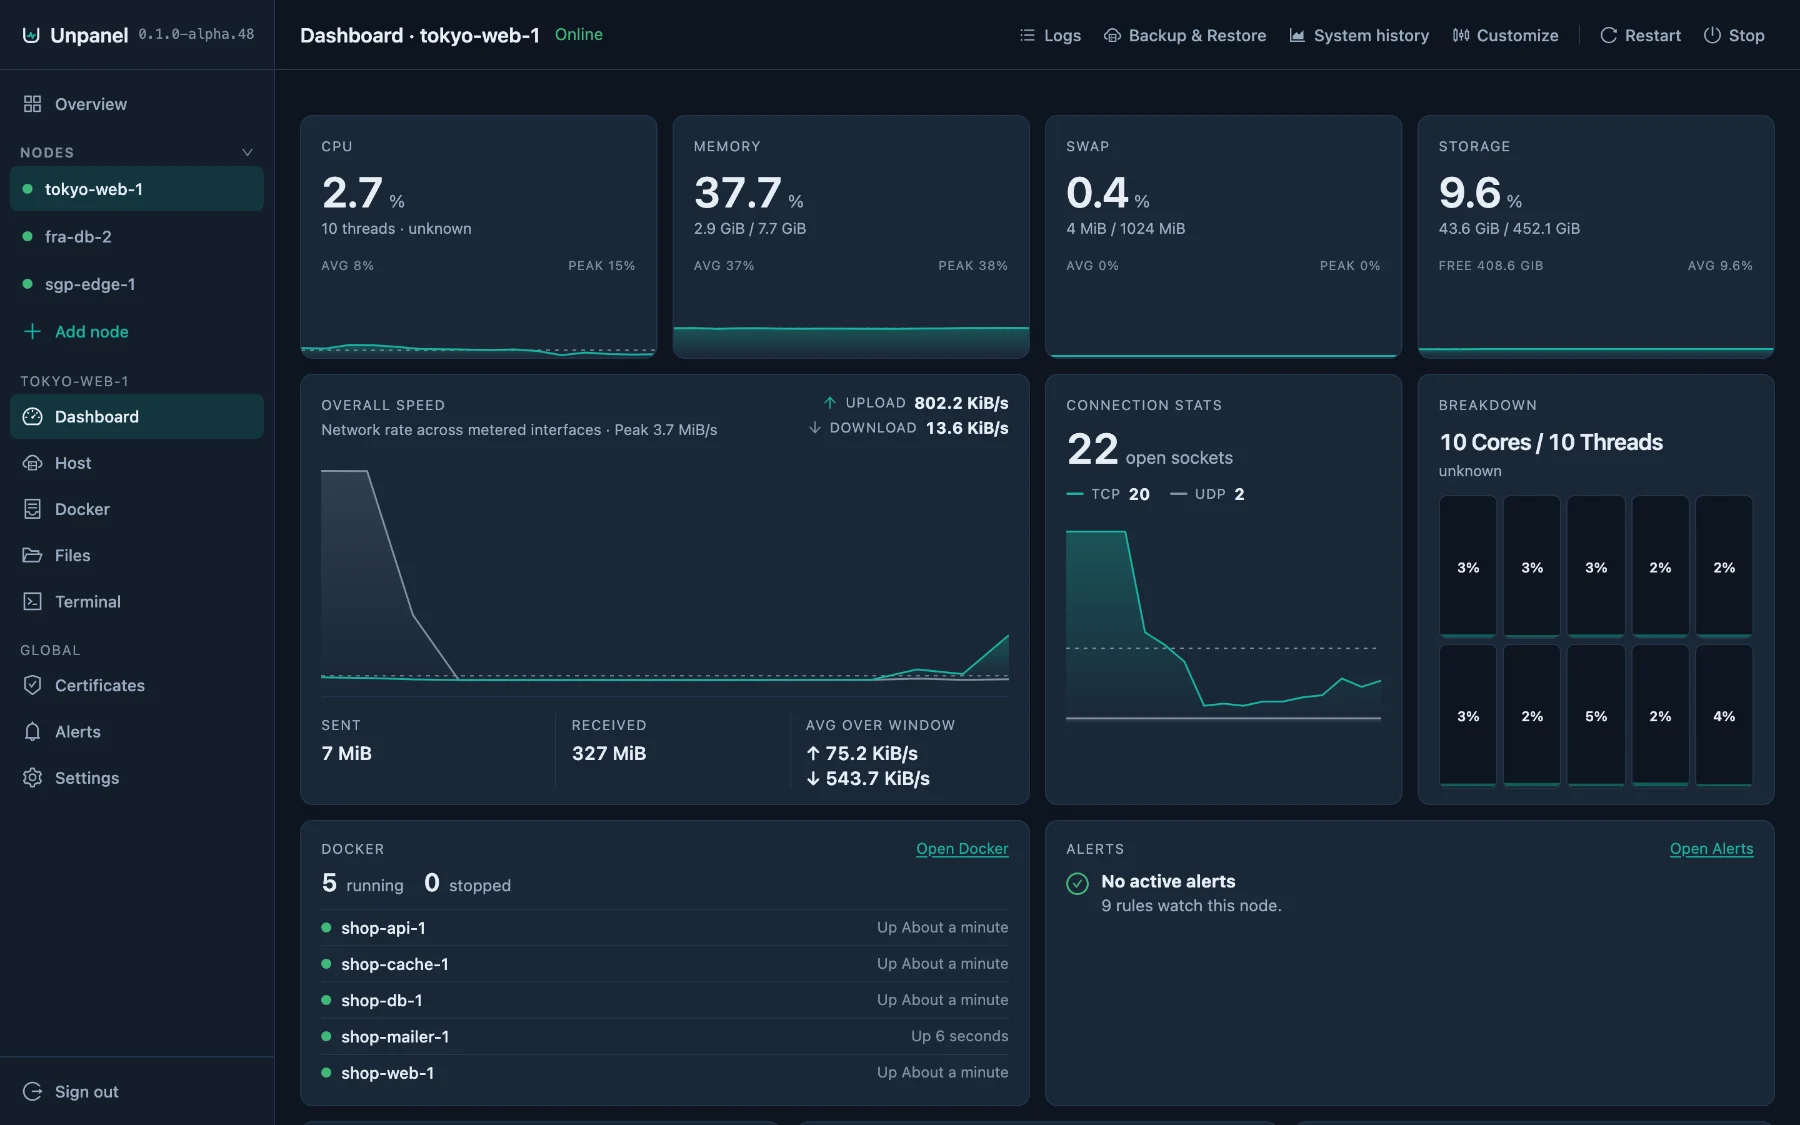
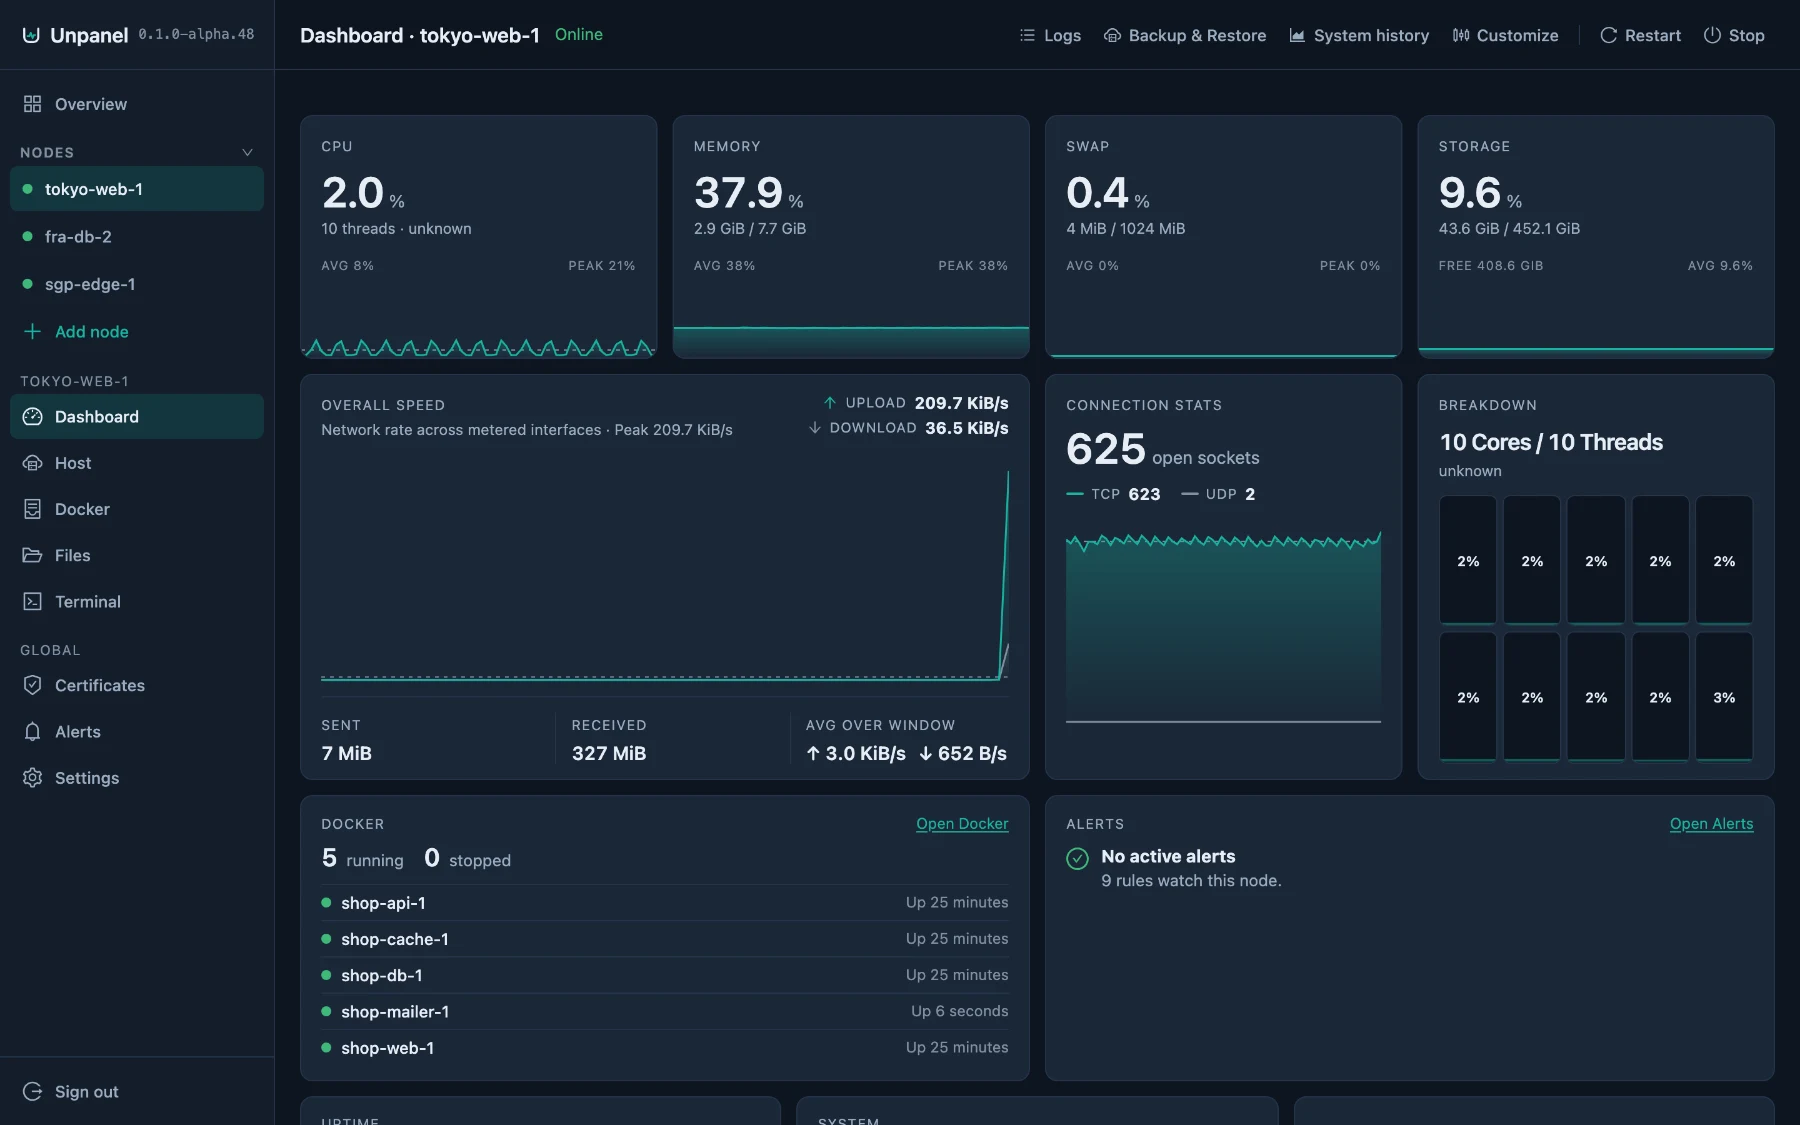
feat(site): real product screenshots, link-preview images and phone-width fixes
Capture Dashboard, Docker, Terminal, Files and Alerts from a published
release running in containers, render share cards from the built hero,
keep Chinese headings from splitting words, and wrap the install command
only at the address's slashes.

diff --git a/apps/site/src/components/InstallCommand.vue b/apps/site/src/components/InstallCommand.vue
@@ -6,9 +6,10 @@ import { product } from "@unpanel/shared";
 import { useLocale } from "../i18n";
 
 const { t } = useLocale();
-const download = `curl -fsSL ${product.siteUrl}/install.sh`;
+const [scheme, host] = product.siteUrl.split("//");
+const path = "/install.sh";
 const run = "| sudo bash";
-const command = `${download} ${run}`;
+const command = `curl -fsSL ${product.siteUrl}${path} ${run}`;
 const copied = ref(false);
 let timer = 0;
 
@@ -54,7 +55,9 @@ onBeforeUnmount(() => window.clearTimeout(timer));
   <div class="command">
     <span class="prompt" aria-hidden="true">$</span>
     <code
-      ><span>{{ download }}</span> <span>{{ run }}</span></code
+      ><span>curl -fsSL</span> <span>{{ scheme }}//</span><wbr /><span>{{ host }}</span
+      ><wbr /><span>{{ path }}</span
+      >{{ " " }}<span>{{ run }}</span></code
     >
     <button type="button" class="btn" :aria-label="t.copy.label" @click="copy">
       <svg viewBox="0 0 16 16" aria-hidden="true">
@@ -97,6 +100,7 @@ code {
   line-height: 1.5;
 }
 
+/* Wrap between words, or at the address's slashes on a phone, never inside the address. */
 code span {
   white-space: nowrap;
 }
@@ -124,11 +128,6 @@ svg {
 
   code {
     flex-basis: calc(100% - 24px);
-  }
-
-  code span:first-child {
-    white-space: normal;
-    overflow-wrap: anywhere;
   }
 
   .btn {

diff --git a/apps/site/src/components/HeroFleet.vue b/apps/site/src/components/HeroFleet.vue
@@ -20,10 +20,11 @@ const root = ref<HTMLElement | null>(null);
 
 const online = computed(() => fleet.filter((server) => server.online).length);
 const attention = computed(() => fleet.filter(needsAttention).length);
-const current = computed(() => fleet[selected.value]!);
+const current = computed(() => fleet[selected.value] ?? fleet[0]);
 
 const tiles = computed(() => {
   const server = current.value;
+  if (!server) return [];
   return [
     { label: t.fleet.cpu, value: currentCpu(server) },
     { label: t.fleet.memory, value: server.memory },
@@ -106,10 +107,10 @@ onBeforeUnmount(() => {
     </ul>
 
     <div class="detail" aria-live="polite">
-      <p v-if="!current.online" class="offline">
+      <p v-if="current && !current.online" class="offline">
         <strong>{{ current.name }}</strong> · {{ t.fleet.offline }}
       </p>
-      <dl v-else class="tiles">
+      <dl v-else-if="current" class="tiles">
         <div v-for="tile in tiles" :key="tile.label" class="tile">
           <dt>{{ tile.label }}</dt>
           <dd v-if="tile.value === null" class="none">{{ t.fleet.noSwap }}</dd>

diff --git a/apps/site/src/components/UpdatesSection.vue b/apps/site/src/components/UpdatesSection.vue
@@ -3,7 +3,7 @@
 <script setup lang="ts">
 import { computed, onBeforeUnmount, onMounted, ref } from "vue";
 import { product } from "@unpanel/shared";
-import releases from "virtual:releases";
+import { releases } from "virtual:releases";
 import { update } from "../content/measurements";
 import { format, formatDate, useLocale } from "../i18n";
 
@@ -21,7 +21,7 @@ const strip = [...releases].reverse();
 const first = strip[0];
 const latest = strip[strip.length - 1];
 const focused = ref<number | null>(null);
-const shown = computed(() => strip[focused.value ?? strip.length - 1]!);
+const shown = computed(() => strip[focused.value ?? strip.length - 1] ?? latest);
 
 const race = ref<HTMLElement | null>(null);
 const running = ref(false);

diff --git a/apps/site/src/lib/changelog.ts b/apps/site/src/lib/changelog.ts
@@ -15,10 +15,10 @@ export function parseReleases(markdown: string): ReleaseSummary[] {
   const releases: ReleaseSummary[] = [];
   const sections = markdown.split(/^## /m).slice(1);
   for (const section of sections) {
-    const heading = /^\[([^\]]+)\] - (\d{4}-\d{2}-\d{2})/.exec(section);
-    if (!heading) continue;
+    const [, version, date] = /^\[([^\]]+)\] - (\d{4}-\d{2}-\d{2})/.exec(section) ?? [];
+    if (!version || !date) continue;
     const entry = /^- (.+)$/m.exec(section)?.[1] ?? "";
-    releases.push({ version: heading[1]!, date: heading[2]!, summary: firstSentence(entry) });
+    releases.push({ version, date, summary: firstSentence(entry) });
   }
   return releases;
 }

diff --git a/apps/site/src/components/FootprintSection.vue b/apps/site/src/components/FootprintSection.vue
@@ -44,10 +44,11 @@ function select(next: FootprintMetric, event?: KeyboardEvent): void {
 }
 
 function onKey(event: KeyboardEvent): void {
+  const step = event.key === "ArrowRight" ? 1 : event.key === "ArrowLeft" ? -1 : 0;
+  if (step === 0) return;
   const index = metrics.indexOf(metric.value);
-  if (event.key === "ArrowRight") select(metrics[(index + 1) % metrics.length]!, event);
-  else if (event.key === "ArrowLeft")
-    select(metrics[(index + metrics.length - 1) % metrics.length]!, event);
+  const next = metrics[(index + step + metrics.length) % metrics.length];
+  if (next) select(next, event);
 }
 </script>
 

diff --git a/apps/site/src/lib/fleet.test.ts b/apps/site/src/lib/fleet.test.ts
@@ -19,10 +19,10 @@ describe("demo fleet", () => {
 
   it("advances by one sample without changing the rail length", () => {
     const fleet = demoFleet();
-    const before = fleet[0]!.cpu.slice(1);
+    const before = fleet[0]?.cpu.slice(1);
     advance(fleet, random(1));
-    expect(fleet[0]!.cpu).toHaveLength(RAIL_LENGTH);
-    expect(fleet[0]!.cpu.slice(0, -1)).toEqual(before);
+    expect(fleet[0]?.cpu).toHaveLength(RAIL_LENGTH);
+    expect(fleet[0]?.cpu.slice(0, -1)).toEqual(before);
   });
 
   it("flags offline servers and full disks for attention", () => {

diff --git a/apps/site/src/components/PulseDivider.vue b/apps/site/src/components/PulseDivider.vue
@@ -5,8 +5,8 @@ import { demoFleet } from "../lib/fleet";
 
 // A still Pulse Rail (design/08 §2.3) as the rule between sections: one server's last 60 samples.
 const props = withDefaults(defineProps<{ seed?: number }>(), { seed: 3 });
-const server = demoFleet(props.seed)[4]!;
-const cells = [...server.cpu, ...server.cpu.slice(0, 20)];
+const cpu = demoFleet(props.seed).find((server) => server.detail === "ci")?.cpu ?? [];
+const cells = [...cpu, ...cpu.slice(0, 20)];
 </script>
 
 <template>

diff --git a/apps/site/vite.config.ts b/apps/site/vite.config.ts
@@ -45,7 +45,7 @@ function releases(changelog: URL): Plugin {
       if (source !== resolved) return undefined;
       const path = fileURLToPath(changelog);
       this.addWatchFile(path);
-      return `export default ${JSON.stringify(parseReleases(readFileSync(path, "utf8")))};`;
+      return `export const releases = ${JSON.stringify(parseReleases(readFileSync(path, "utf8")))};`;
     },
   };
 }

diff --git a/apps/site/src/style.css b/apps/site/src/style.css
@@ -160,6 +160,9 @@ h3 {
 /* Chinese headings fall back to the system CJK face, which needs looser leading. */
 :lang(zh) h1,
 :lang(zh) h2 {
+  /* Break only at punctuation, so a word such as 服务器 stays on one line. */
+  word-break: keep-all;
+  overflow-wrap: anywhere;
   font-weight: 700;
   letter-spacing: 0.01em;
   line-height: 1.18;

diff --git a/apps/site/src/env.d.ts b/apps/site/src/env.d.ts
@@ -7,6 +7,5 @@ declare module "virtual:releases" {
   import type { ReleaseSummary } from "./lib/changelog";
 
   /** Every release in CHANGELOG.md, newest first, read at build time. */
-  const releases: ReleaseSummary[];
-  export default releases;
+  export const releases: ReleaseSummary[];
 }

diff --git a/apps/site/src/components/HeroSection.vue b/apps/site/src/components/HeroSection.vue
@@ -90,6 +90,7 @@ h1 {
 
 :lang(zh) h1 {
   font-size: clamp(2rem, 3.6vw, 2.9rem);
+  line-height: 1.2;
 }
 
 .lede {
